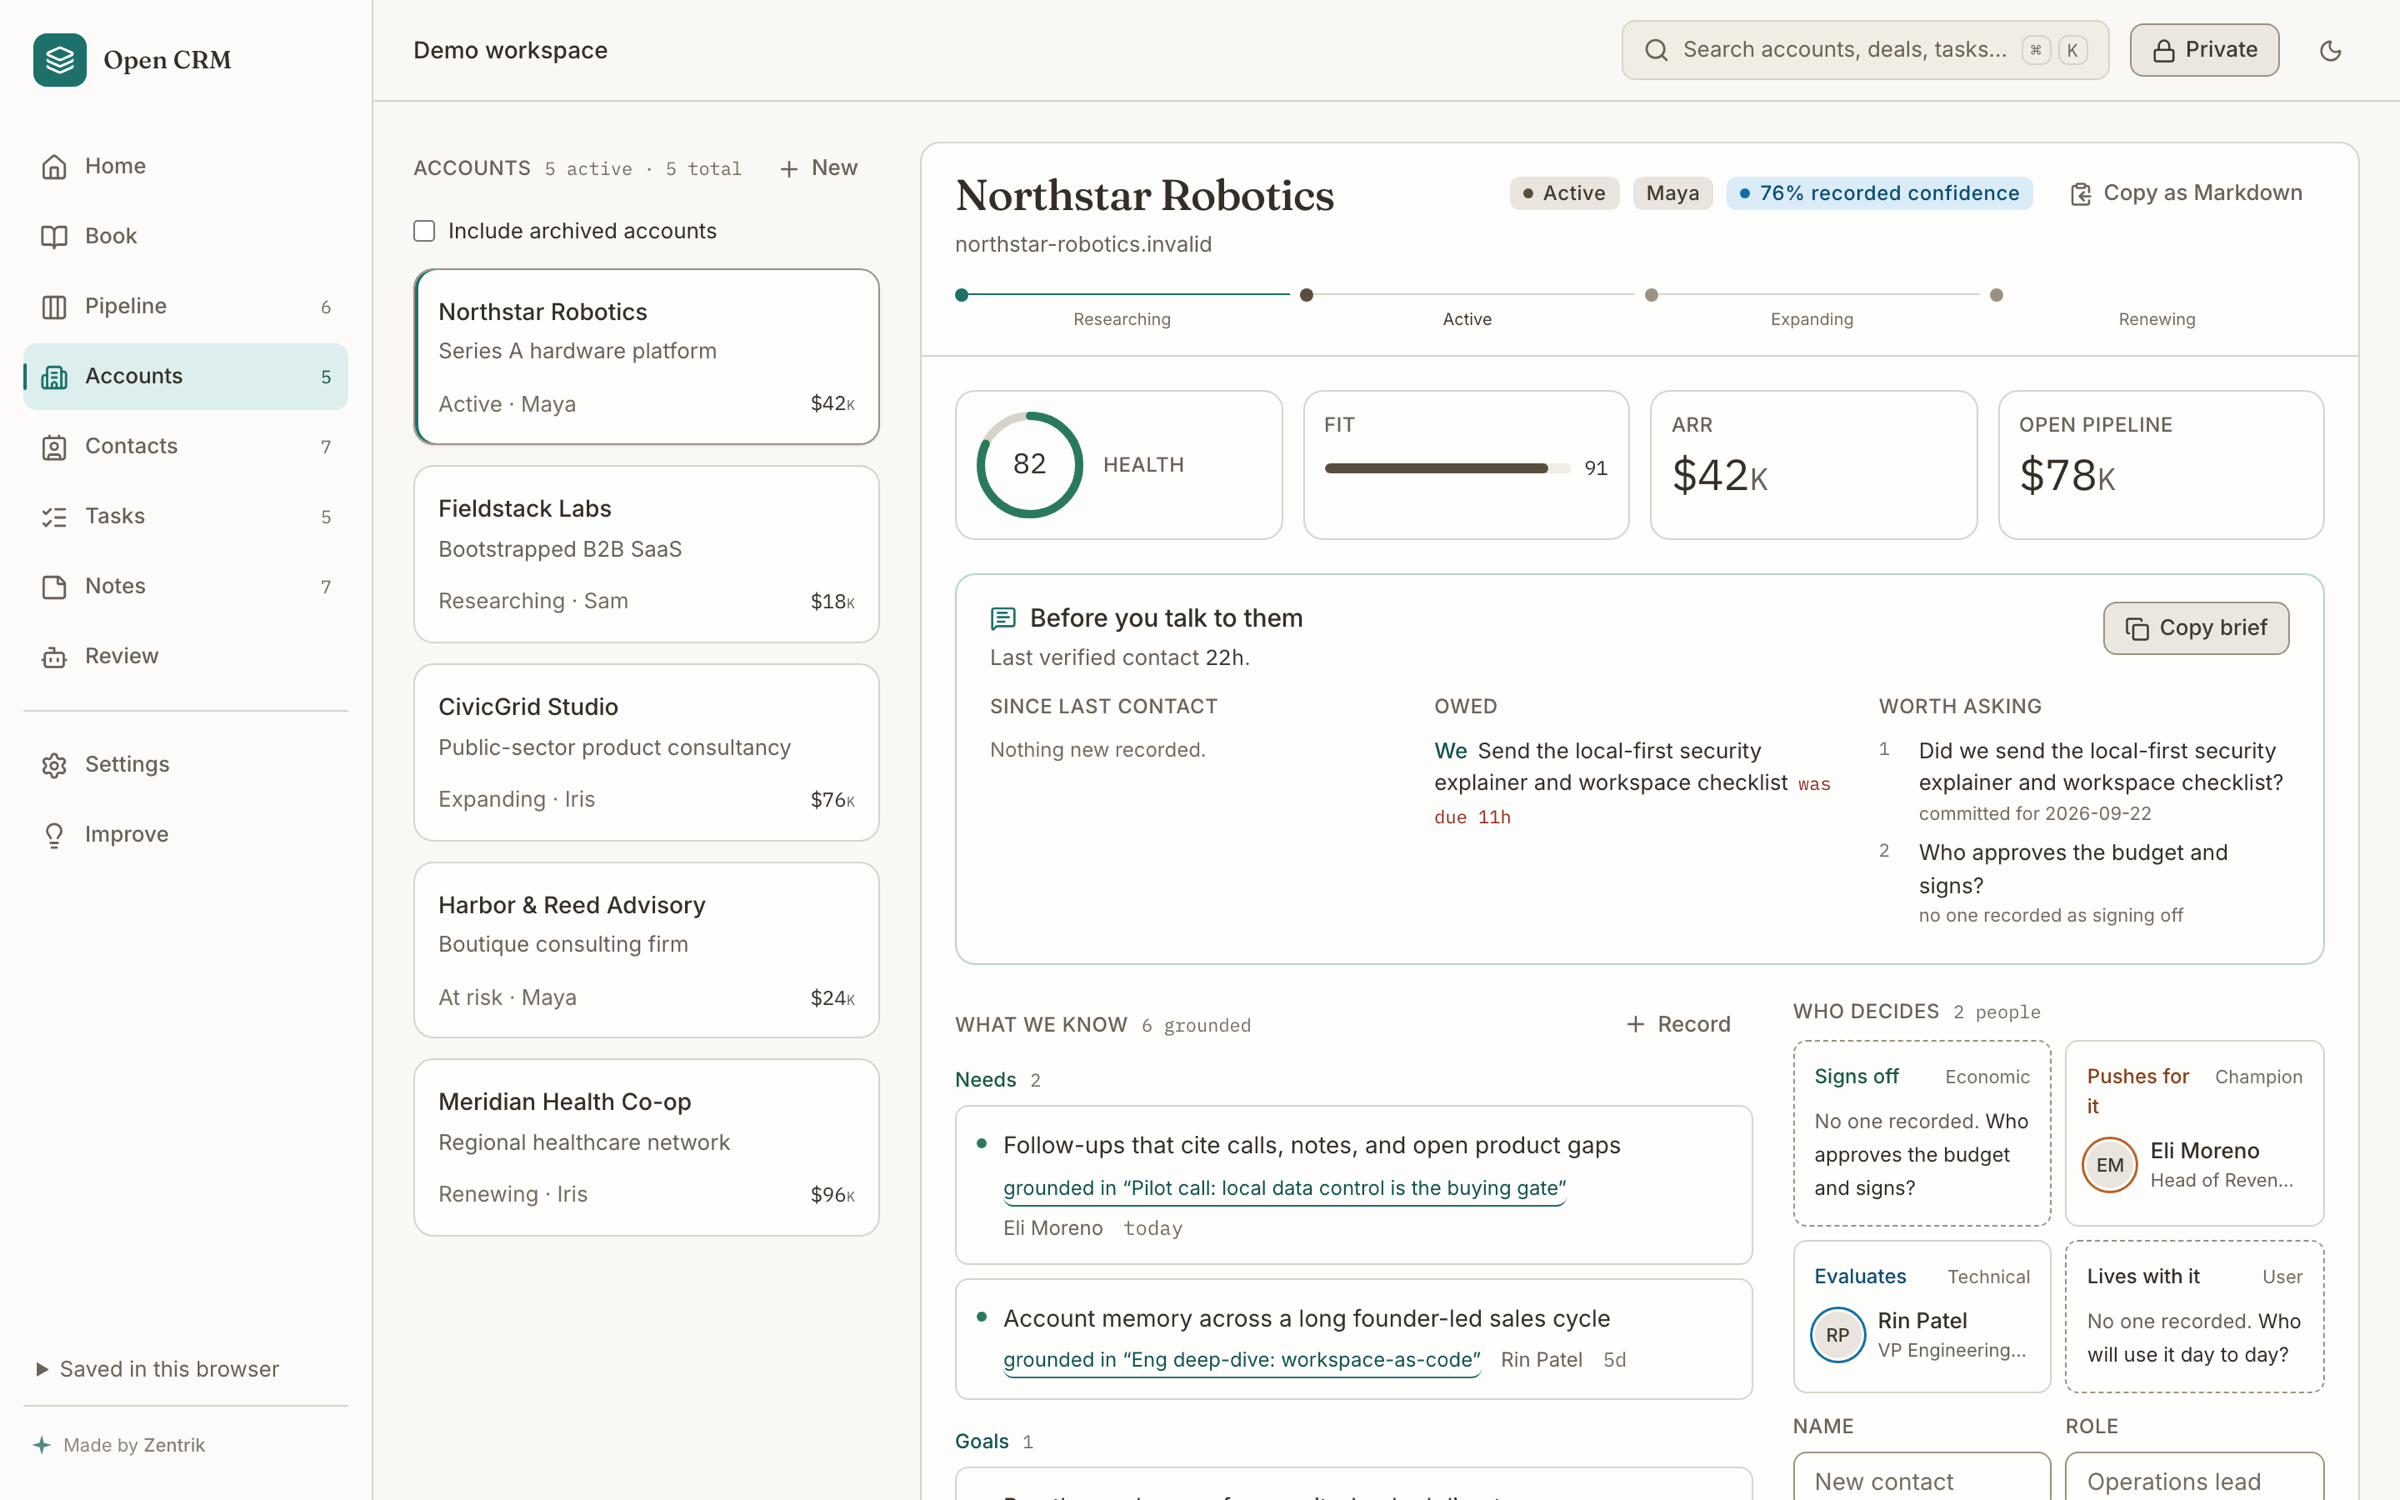
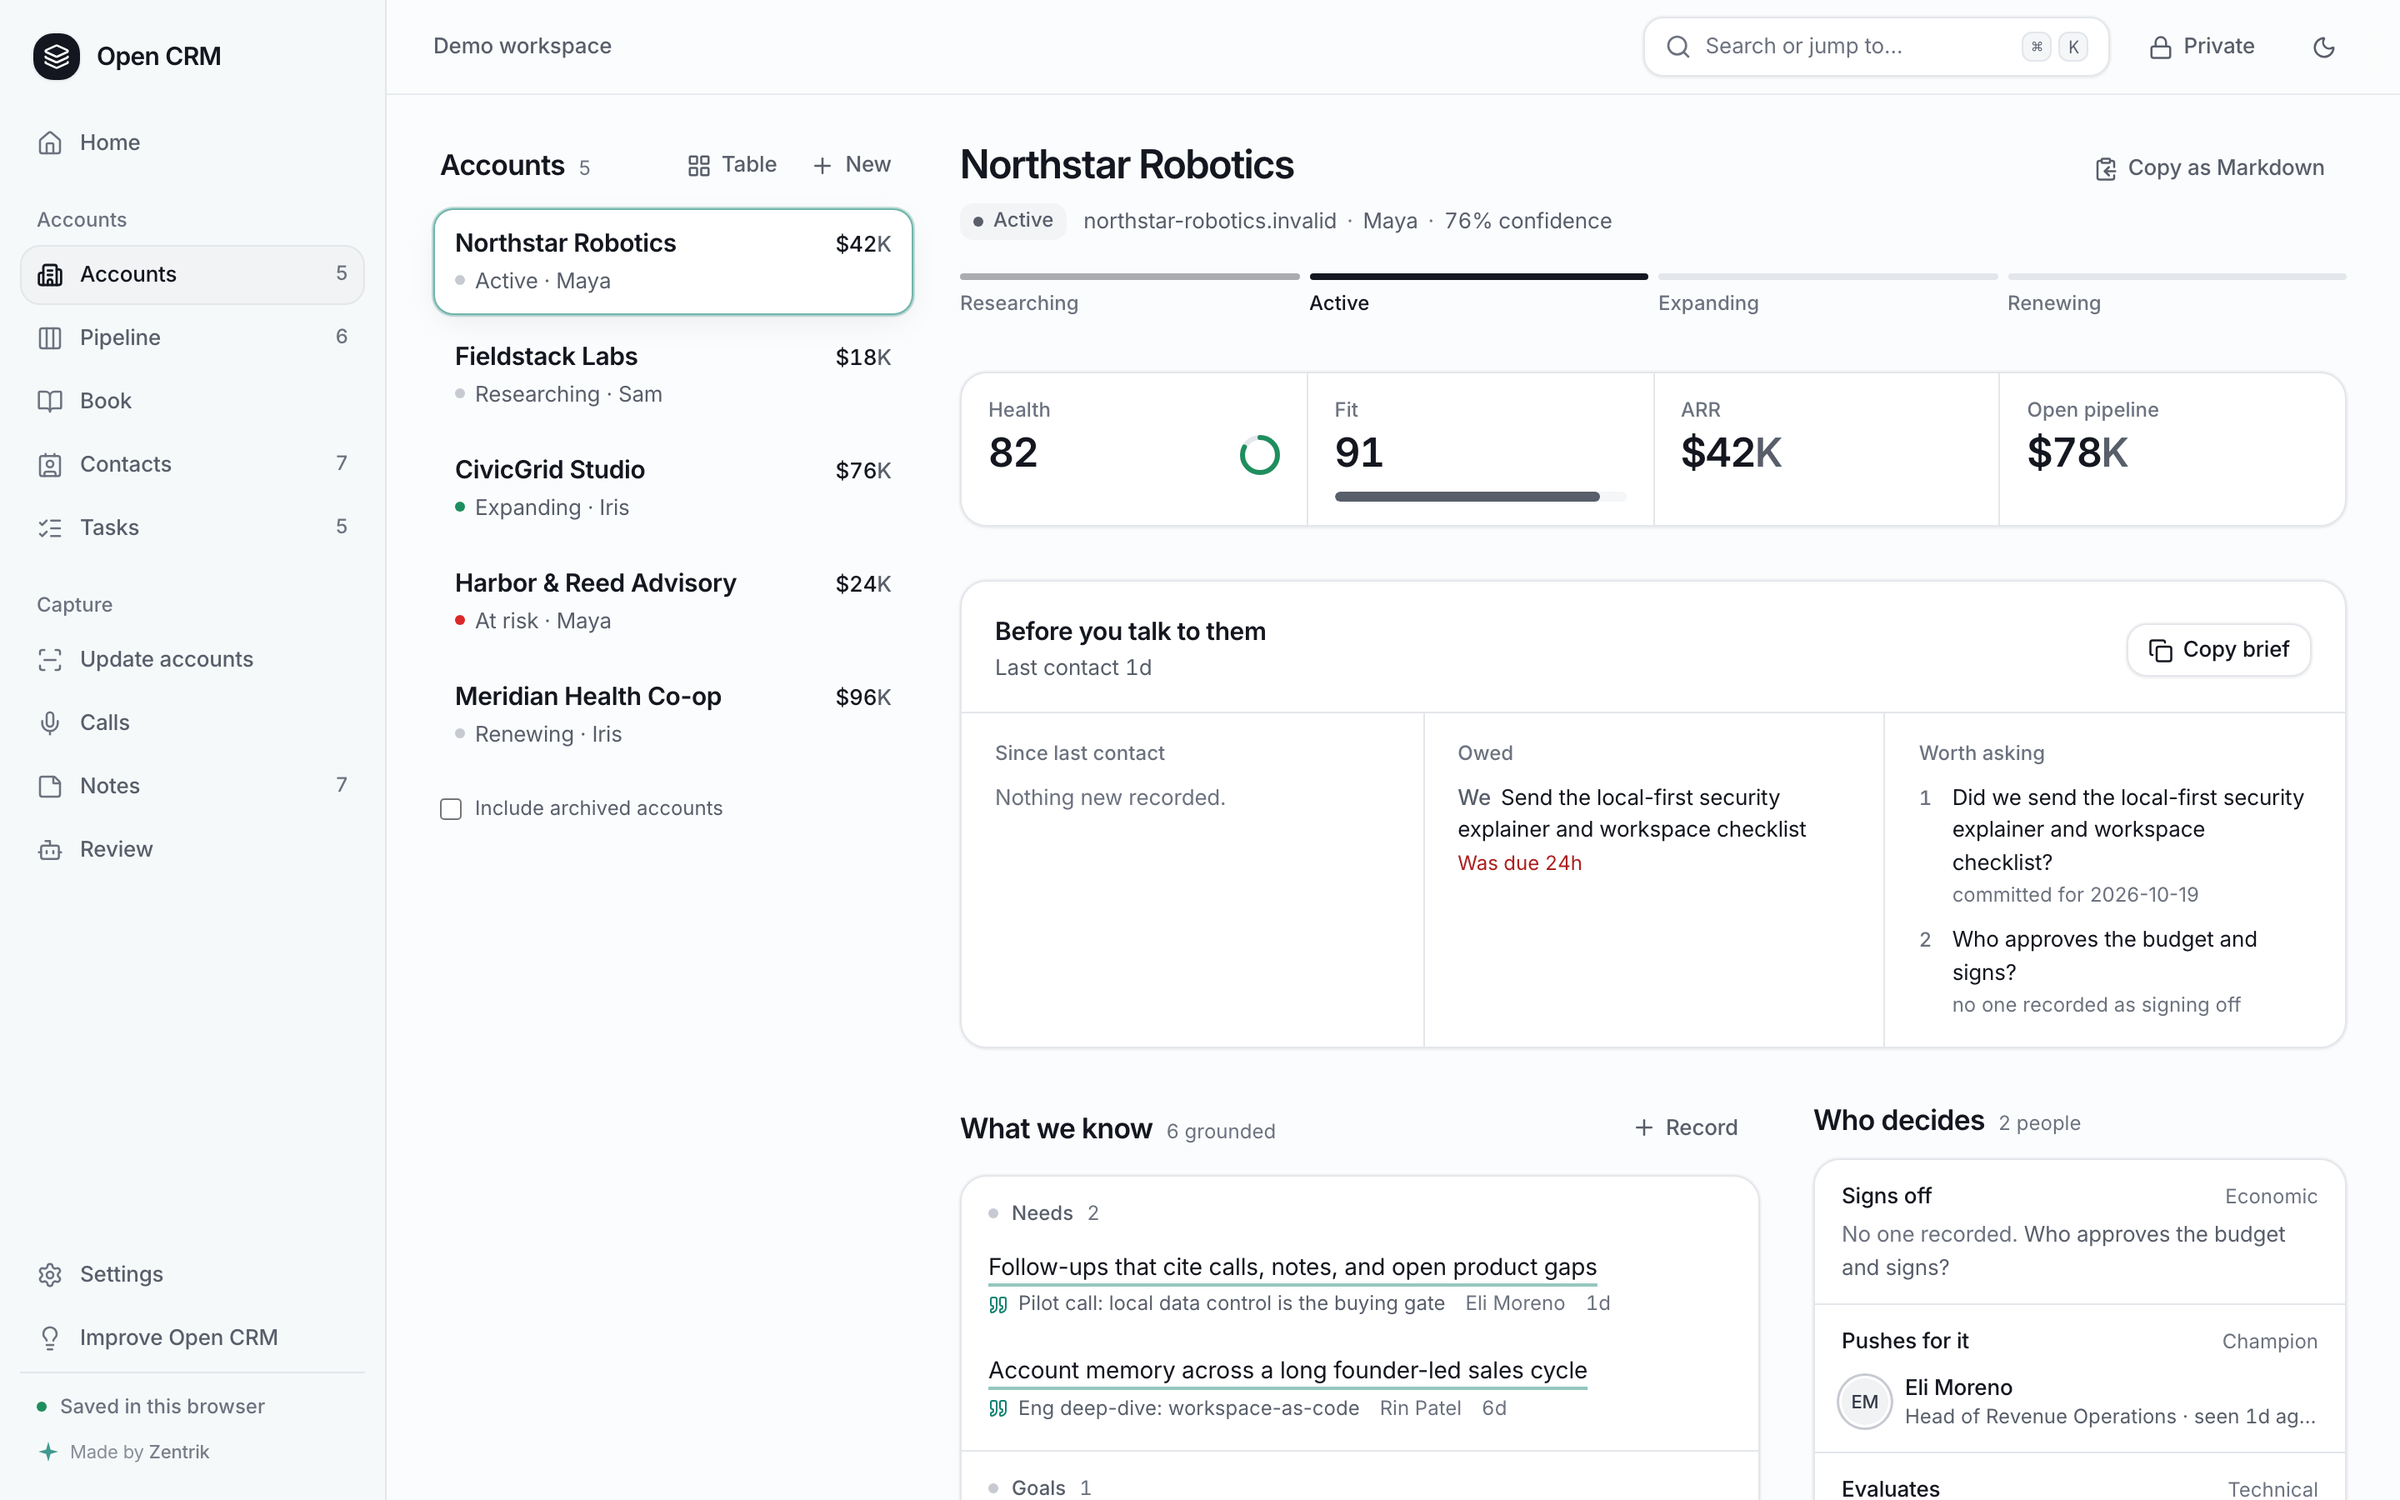
Show the product as it looks now
The Clear v2 redesign landed on 29 September; the README still showed captures
from 22 September, so the first thing every visitor saw was a product that no
longer exists. Hero, trace and table are re-captured from the current build,
and Calls finally has a picture: real sample transcripts imported into a folder
workspace, with the review pane asking what the call should change.

diff --git a/README.md b/README.md
@@ -71,6 +71,8 @@ Connection keys stay in the local server's memory. Jev processing sends selected
 transcript content to TypeSafe after you confirm it. Try the included synthetic
 calls before importing your own. [Setup, data flow and batch guide](docs/calls.md).
 
+![The Calls workspace: provider connections, imported sample transcripts, and the review pane that asks what a call should change](https://raw.githubusercontent.com/Zentrik-AI/zentrik-open-crm/main/assets/demo/calls.png)
+
 ## Every fact shows its source
 
 What you know about an account is recorded as **claims**: needs, risks, goals,
